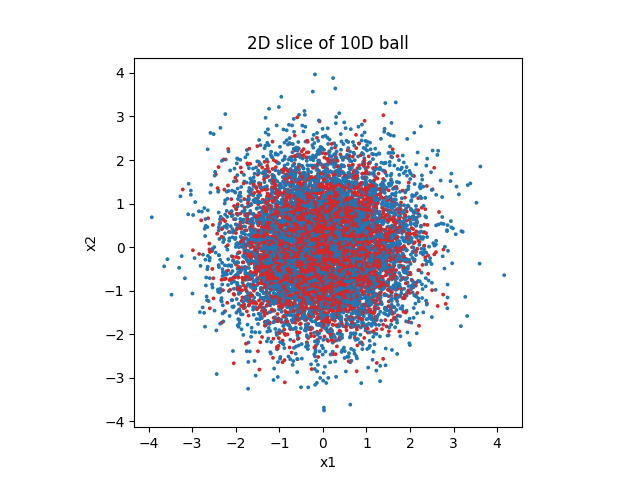
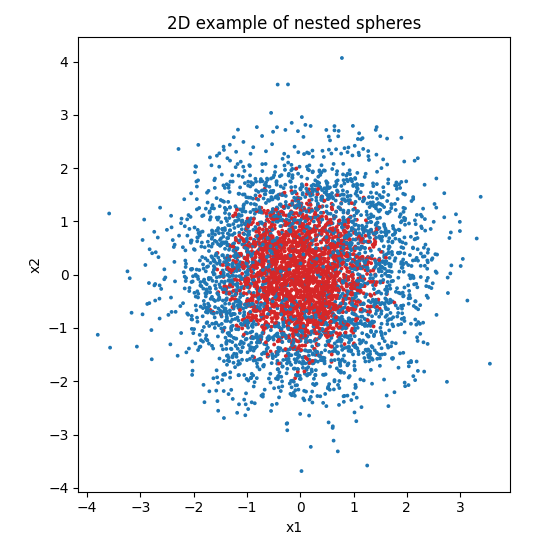
plotting 2D example of simulation data

diff --git a/boosting/pydata-cph/simulation/gen_noisy_data.py b/boosting/pydata-cph/simulation/gen_noisy_data.py
@@ -6,11 +6,12 @@ from utils import gen_spherical_data
 N = 10000
 K = 10
 SEED = 123
+NOISE_PCT = 0.75
 
 X, y = gen_spherical_data(
     n=N, 
     k=K,
-    noise_pct_thershold=0.75,
+    noise_pct_thershold=NOISE_PCT,
     seed=SEED
 )
 
@@ -18,19 +19,28 @@ print("Saving X and y data...")
 np.save("data/X_noisy.npy", X)
 np.save("data/y_noisy.npy", y)
 
-# Plotting on reduced data
-n_max = 10000
+# Plotting on reduced example data
+N = 5000
+K = 2
+SEED = 123
+
+X, y = gen_spherical_data(
+    n=N, 
+    k=K,
+    noise_pct_thershold=NOISE_PCT,
+    seed=SEED
+)
+
 x1, x2 , *ignore = X.T
-x1, x2 = x1[0:n_max], x2[0:n_max]
-y = y[0:n_max]
 colors = np.array(["tab:blue", "tab:red"])
 fig1, ax = plt.subplots()
+fig1.set_size_inches(5.5, 5.5)
 ax.set_aspect('equal')
 y_color_indic = (y+1)//2
 ax.scatter(x1, x2, s=3, c=colors[y_color_indic])
-plt.title(f"2D slice of {K}D ball")
+plt.title("2D example of nested spheres")
 plt.xlabel("x1")
 plt.ylabel("x2")
-plt.savefig("plots/gen_noisy_data.png")
 plt.tight_layout()
+plt.savefig("plots/gen_noisy_data.png")
 plt.close()

diff --git a/boosting/pydata-cph/simulation/gen_data.py b/boosting/pydata-cph/simulation/gen_data.py
@@ -16,19 +16,27 @@ print("Saving X and y data...")
 np.save("data/X.npy", X)
 np.save("data/y.npy", y)
 
-# Plotting on reduced data
-n_max = 8000
+# Plotting on reduced example data
+N = 5000
+K = 2
+SEED = 123
+
+X, y = gen_spherical_data(
+    n=N, 
+    k=K,
+    seed=SEED
+)
+
 x1, x2 , *ignore = X.T
-x1, x2 = x1[0:n_max], x2[0:n_max]
-y = y[0:n_max]
 colors = np.array(["tab:blue", "tab:red"])
 fig1, ax = plt.subplots()
+fig1.set_size_inches(5.5, 5.5)
 ax.set_aspect('equal')
 y_color_indic = (y+1)//2
 ax.scatter(x1, x2, s=3, c=colors[y_color_indic])
-plt.title(f"2D slice of {K}D ball")
+plt.title("2D example of nested spheres")
 plt.xlabel("x1")
 plt.ylabel("x2")
-plt.savefig("plots/gen_data.png")
 plt.tight_layout()
+plt.savefig("plots/gen_data.png")
 plt.close()
